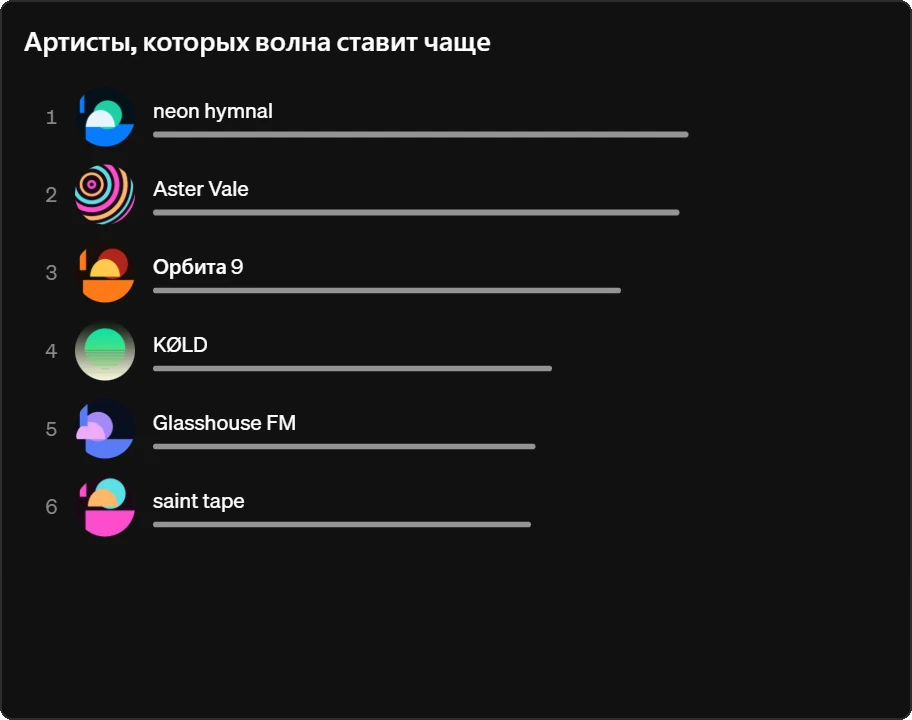
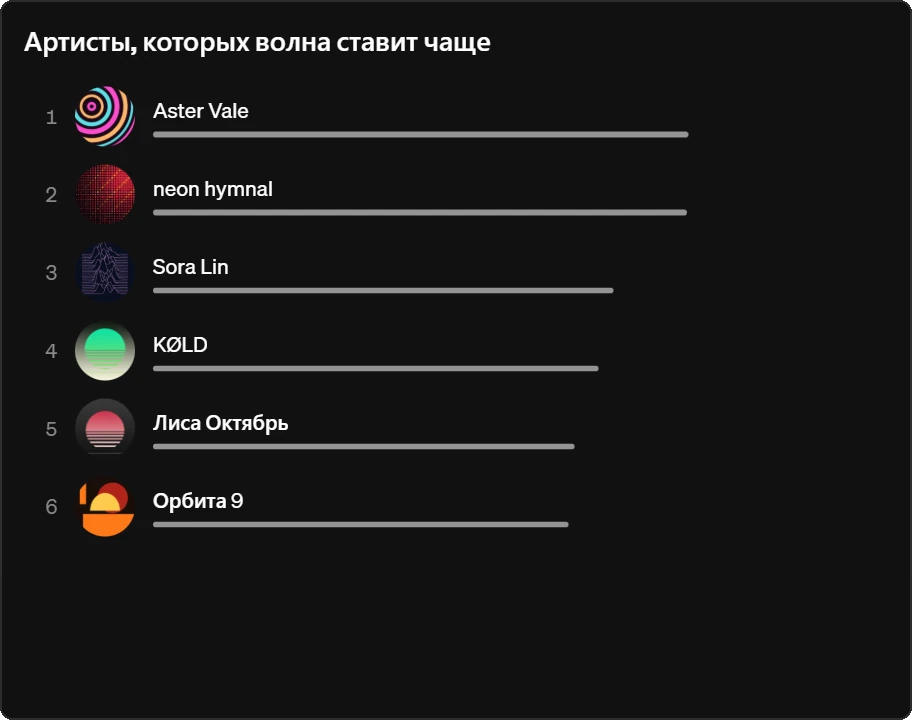
Версия 0.10.0
README: смена источников «Моей музыки» во время игры, блок «Как попадает волна» в истории, новые снимки на выдуманных данных

diff --git a/README.md b/README.md
@@ -8,7 +8,7 @@
 
 <a href="https://github.com/zxczxczxczxczxczxc1111/soundcloud-desktop/releases/latest"><img src="assets/readme/download.svg" width="248" height="48" alt="Скачать для Windows"></a>
 
-<sub>Версия 0.9.0 для Windows 10 и 11 x64</sub>
+<sub>Версия 0.10.0 для Windows 10 и 11 x64</sub>
 
 <a href="#моя-волна">Моя волна</a>&emsp;<a href="#радар-релизов">Радар релизов</a>&emsp;<a href="#история">История</a>&emsp;<a href="#что-ещё-есть-в-клиенте">Что ещё есть</a>&emsp;<a href="#установка">Установка</a>
 
@@ -16,7 +16,7 @@
 
 <br>
 
-<img src="assets/readme/wave.webp" width="100%" alt="Главная клиента: играет «Моя волна», ниже очередь и полка подборок, первыми радар релизов и новые загрузки">
+<img src="assets/readme/wave.webp" width="100%" alt="Главная клиента: играет «Моя волна», ниже очередь и блок «Моя музыка»">
 
 Это soundcloud.com в своём окне, только главная другая: вместо полок сайта твоя волна, подборки на день и пятничный радар релизов. Клиент ведёт журнал того, что ты слушаешь, по нему подбирает треки и показывает историю. Журнал лежит только у тебя на компьютере.
 
@@ -25,15 +25,19 @@
 Жмёшь play, и клиент собирает бесконечную очередь из похожего на то, что ты слушаешь и лайкаешь. Пока трек играет, очередь догружается, один артист не идёт подряд, а под треком подписано, почему он в волне. Что ещё умеет волна:
 
 - **Похожее или новое**: «Похожее» подбирает треки вокруг твоих лайков и истории, «Новое» берёт треки в твоём вкусе, которых ты ещё не слышал. Жанры можно задать своими словами: `techno, dark techno`.
-- **Вкус по тому, как ты слушаешь**: дослушанный трек, пропуск в первые 30 секунд и лайк меняют то, что волна поставит дальше. Свою картину твоего вкуса волна показывает на странице истории.
-- **«Больше такого» и «Не сейчас»**: кнопки у играющего трека. Первая добавляет в волну похожее, вторая убирает трек из волны на неделю. Из меню по правой кнопке так же убирается артист, а «Не нравится» и «Не показывать артиста» убирают насовсем.
+- **Вкус по тому, как ты слушаешь**: дослушанный трек, пропуск в первые 30 секунд и лайк меняют то, что волна поставит дальше. Свою картину твоего вкуса и то, насколько она попадает, волна показывает на странице истории.
+- **«Больше такого» и «Не сейчас»**: кнопки у играющего трека. Первая добавляет в волну похожее, вторая убирает трек из волны на неделю. Из меню по правой кнопке так же убирается артист, а «Не нравится» и «Не показывать аккаунт» убирают насовсем.
 - **Волна от чего угодно**: нажми правой кнопкой на трек, артиста или плейлист на сайте, и волна начнётся от него. Когда похожее кончится, продолжит станция трека.
 - **«Встряхнуть»**: меняет треки впереди, играющий не прерывается.
 - **Версии трека**: волна различает оригинал, slowed, sped up, ремиксы и лайвы, а перезалив той же версии второй раз не ставит. «Версии этого трека» в меню покажет остальные, «Скрыть другие версии» уберёт их из волны и радара.
 
 ### Моя музыка
 
-Под волной блок с твоими лайками и плейлистами целиком. Выбираешь, что играть, и порядок: «По порядку», «Перемешать» (один артист не идёт подряд, слышанное за 3 дня пропускается) или «Умное перемешивание», где после каждых трёх своих треков идёт похожий, которого у тебя ещё нет.
+Под волной блок с твоими лайками и плейлистами, своими и сохранёнными. В «Источниках» выбираешь, что играть, можно сразу несколько. Выбранное подсвечено, а значок волны стоит у источника, откуда играет текущий трек. Порядок: «По порядку», «Перемешать» (один артист не идёт подряд, слышанное за 3 дня пропускается) или «Умное перемешивание», где после каждых трёх своих треков идёт похожий, которого у тебя ещё нет.
+
+Источники и порядок можно менять во время игры: текущий трек не прерывается, меняются только треки впереди. Когда перемешивание пропускает слышанное за 3 дня, статус показывает, сколько пойдёт в очередь: «54 трека из 72».
+
+<img src="assets/readme/library.webp" width="100%" alt="Блок «Моя музыка»: играют лайки и плейлист «Ночная смена», 54 трека из 72, открыт выбор источников со значком волны у лайков">
 
 ### Подборки на каждый день
 
@@ -47,7 +51,7 @@
 
 Нажми на карточку, и под полкой раскроется её список. Любой трек из него можно включить первым, а за ним пойдёт остальная подборка.
 
-<img src="assets/readme/mixes.webp" width="100%" alt="Раскрытая подборка Hip-hop & Rap: список треков в две колонки, играющий подсвечен">
+<img src="assets/readme/mixes.webp" width="100%" alt="Раскрытая подборка Indie и Indie rock: список треков в две колонки, играющий подсвечен">
 
 Полки сайта на главной скрыты, волна их заменяет. Вернуть любую можно в настройках: <kbd>F1</kbd> → Главная.
 
@@ -81,9 +85,10 @@
 
 - **Сколько музыки**: за неделю, месяц, год или всё время, по дням и часам. Журнал любого дня и поиск по всему, что ты слушал. Нажатие на трек включает его.
 - **Топы**: артисты, треки и жанры, а ещё карта того, в какие часы и дни ты слушаешь.
-- **Вкус глазами волны**: артисты и теги, на которые она опирается, и доля треков, пропущенных в первые 30 секунд. Лишнего артиста или тег можно убрать из вкуса.
+- **Вкус глазами волны**: артисты и теги, на которые она опирается. Лишнего артиста или тег можно убрать из вкуса.
+- **Как попадает волна**: сколько треков волны ты пропускаешь в первые 30 секунд и сколько дослушиваешь, рядом со своей музыкой и прошлым периодом. Там же лайки, «Больше такого», отказы, новые артисты, пропуски по дням и разбор по подборкам, причинам подбора и месту трека в очереди.
 
-<img src="assets/readme/history.webp" width="100%" alt="Страница истории: почти 35 часов музыки за 30 дней, столбики по времени, любимые артисты">
+<img src="assets/readme/history.webp" width="100%" alt="Страница истории: 35 с половиной часов музыки за 30 дней, столбики по дням, любимые артисты">
 
 <table>
   <tr>
@@ -95,6 +100,8 @@
     <td valign="top"><sub>Артисты, которых волна ставит чаще</sub></td>
   </tr>
 </table>
+
+<img src="assets/readme/history-wave.webp" width="100%" alt="Блок «Как попадает волна» за 30 дней: 11% пропущено до 0:30, 70% дослушано, пропуски по дням, разбор по подборкам, причинам и месту в выдаче">
 
 Трек засчитывается с 30 секунд звука. История своя у каждого аккаунта и лежит в `%APPDATA%\soundcloud-desktop`.
 
@@ -176,7 +183,7 @@
 
 ## Установка
 
-Бери установщик `soundcloud-desktop-0.9.0-setup-x64.exe` на странице [последнего релиза](https://github.com/zxczxczxczxczxczxc1111/soundcloud-desktop/releases/latest). Рядом лежит `SHA256SUMS`, если захочешь сверить файлы.
+Бери установщик `soundcloud-desktop-0.10.0-setup-x64.exe` на странице [последнего релиза](https://github.com/zxczxczxczxczxczxc1111/soundcloud-desktop/releases/latest). Рядом лежит `SHA256SUMS`, если захочешь сверить файлы.
 
 Клиент обновляется сам: новую версию качает в фоне и ставит, когда ты его закрываешь. Выключить это можно переключателем «Проверять обновления» внизу настроек.
 
